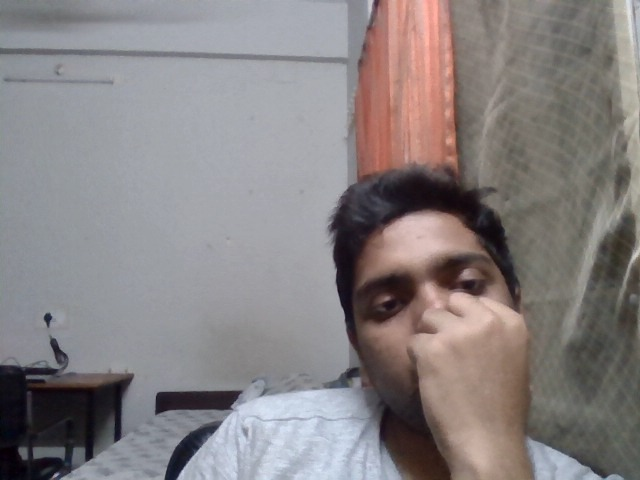
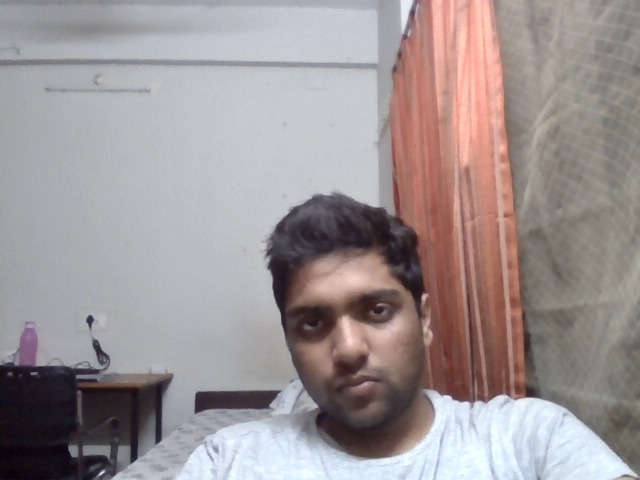
Logged In sessions created, now refreshing or switching sections don't logsout the user nor clears the previous stated answers, questions or scores.

diff --git a/templates/index.html b/templates/index.html
@@ -16,6 +16,15 @@
     <noscript
       ><link rel="stylesheet" href="/static/css/noscript.css"
     /></noscript>
+        <script>
+      (function () {
+        try {
+          if (sessionStorage.getItem("isLoggedIn") === "true") {
+            document.documentElement.classList.add("prelogged");
+          }
+        } catch (e) {}
+      })();
+    </script>
     <style>
       /* Background Styles */
       #bg {
@@ -236,6 +245,17 @@
         margin-top: 0.45rem;
         font-size: 0.95rem;
         color: rgba(255, 255, 255, 0.9);
+      }
+    
+      html.prelogged #landing-page {
+        display: none !important;
+      }
+
+      html.prelogged #header,
+      html.prelogged #main,
+      html.prelogged #footer {
+      display: block !important;
+
       }
 
     </style>
@@ -692,13 +712,18 @@
         });
         const result = await response.json();
         const feedback = document.getElementById("signInFeedback");
+        
         if (result.success) {
           feedback.textContent = "Sign-in successful! Redirecting...";
           feedback.style.color = "green";
           setTimeout(() => {
+            sessionStorage.setItem("isLoggedIn", "true");
+            sessionStorage.setItem("activeSection", "home");
+
             $("#wrapper").addClass("logged-in");
+            $("#main article").removeClass("active");
             $("#home").addClass("active");
-            // Reapply preloading class briefly for animation
+
             $("body").addClass("is-preload");
             setTimeout(() => {
               $("body").removeClass("is-preload");
@@ -711,13 +736,25 @@
       }
 
       $(document).ready(function () {
+        const isLoggedIn = sessionStorage.getItem("isLoggedIn");
+        const activeSection = sessionStorage.getItem("activeSection") || "home";
+
+        if (isLoggedIn === "true") {
+          $("#wrapper").addClass("logged-in");
+          $("#main article").removeClass("active");
+          $(`#${activeSection}`).addClass("active");
+          $(`#header nav ul li a[href="#${activeSection}"]`).addClass("active");
+        }
         $(".nav-link").on("click", function (e) {
           e.preventDefault();
           const target = $(this).attr("href").substring(1);
+
           $("#main article").removeClass("active");
           $(`#${target}`).addClass("active");
           $("#header nav ul li a").removeClass("active");
           $(this).addClass("active");
+
+          sessionStorage.setItem("activeSection", target);
           window.scrollTo(0, 0);
         });
 
@@ -971,6 +1008,18 @@
         try {
           submitBtn.disabled = true;
           hideVoiceUI(type);
+
+          if (type === "tech") {
+            document.getElementById("questionTextTech").textContent = "";
+            document.getElementById("feedbackTextTech").textContent = "";
+            document.getElementById("audioPlayerTech").src = "";
+          } else {
+            document.getElementById("questionTextHR").textContent = "";
+            document.getElementById("feedbackTextHR").textContent = "";
+            document.getElementById("audioPlayerHR").src = "";
+            document.getElementById("emotionsHR").textContent = "None detected";
+            document.getElementById("dominantEmotionHR").textContent = "None";
+          }
 
           await startCamera(type);
 
@@ -1275,26 +1324,13 @@
           }
         });
 
-      $(".nav-link, .close").on("click", function () {
+      $(".nav-link").on("click", function () {
         stopBrowserSpeech();
-        stopRecording("tech");
-        stopRecording("hr");
-        stopCamera("tech");
-        stopCamera("hr");
-        stopVoiceVisualizer("tech");
-        stopVoiceVisualizer("hr");
-        hideVoiceUI("tech");
-        hideVoiceUI("hr");
+        sessionStorage.setItem("activeSection", $(this).attr("href").substring(1));
+      });
 
-        document.getElementById("questionTextTech").textContent = "";
-        document.getElementById("questionTextHR").textContent = "";
-        document.getElementById("feedbackTextTech").textContent = "";
-        document.getElementById("feedbackTextHR").textContent = "";
-        document.getElementById("audioPlayerTech").src = "";
-        document.getElementById("audioPlayerHR").src = "";
-
-        document.getElementById("submitAnswerTech").disabled = true;
-        document.getElementById("submitAnswerHR").disabled = true;
+      $(".close").on("click", function () {
+        stopBrowserSpeech();
       });
 
     </script>

diff --git a/app.py b/app.py
@@ -1,7 +1,7 @@
 import os
 import uuid
 from google import genai
-from flask import Flask, render_template, request, jsonify
+from flask import Flask, render_template, request, jsonify, session
 import speech_recognition as sr
 import numpy as np
 import librosa
@@ -36,6 +36,7 @@ logging.basicConfig(level=logging.INFO)
 logger = logging.getLogger(__name__)
 
 app = Flask(__name__, static_url_path='/static', static_folder='static')
+app.secret_key = os.getenv("FLASK_SECRET_KEY", "cyberverse-dev-secret-key")
 
 #GOOGLE_API_KEY = os.getenv("GEMINI_API_KEY")
 #genai.configure(api_key=GOOGLE_API_KEY)
@@ -86,7 +87,6 @@ nlp = spacy.load("en_core_web_sm")
 conversation_history = []
 current_interview_type = None
 extracted_skills = []
-current_user_id = None
 
 tech_question_count = 0
 tech_score = 0
@@ -363,7 +363,6 @@ def index():
 
 @app.route('/sign_up', methods=['POST'])
 def sign_up_route():
-    global current_user_id
     try:
         email = request.form.get('email')
         password = request.form.get('password')
@@ -394,7 +393,7 @@ def sign_up_route():
         if not profile_response.data:
             return jsonify({"error": "Failed to create user profile"}), 500
 
-        current_user_id = user_id
+        session["user_id"] = user_id
         logger.info(f"User signed up with user_id: {user_id}")
         return jsonify({"success": True, "user_id": user_id})
     except Exception as e:
@@ -404,7 +403,6 @@ def sign_up_route():
 
 @app.route('/sign_in', methods=['POST'])
 def sign_in_route():
-    global current_user_id
     try:
         email = request.form.get('email')
         password = request.form.get('password')
@@ -416,7 +414,7 @@ def sign_in_route():
             return jsonify({"error": "Invalid email or password"}), 400
 
         user_id = user.data[0]["user_id"]
-        current_user_id = user_id
+        session["user_id"] = user_id
         logger.info(f"User signed in with user_id: {user_id}")
         return jsonify({"success": True, "user_id": user_id})
     except Exception as e:
@@ -424,12 +422,18 @@ def sign_in_route():
         return jsonify({"error": "Internal server error"}), 500
 
 
+@app.route('/logout', methods=['POST'])
+def logout_route():
+    session.pop("user_id", None)
+    return jsonify({"success": True})
+
 
 @app.route('/start_interview', methods=['POST'])
 def start_interview():
     global conversation_history, current_interview_type, tech_question_count, tech_score, hr_question_count, hr_score, hr_emotions_history, hr_soft_skills_history
     try:
-        if not current_user_id:
+        user_id = session.get("user_id")
+        if not user_id:
             return jsonify({"error": "User not authenticated"}), 401
 
         interview_type = request.json.get('type')
@@ -465,7 +469,8 @@ def submit_response():
     try:
         result = {}
 
-        if not current_user_id:
+        user_id = session.get("user_id")
+        if not user_id:
             return jsonify({"error": "User not authenticated"}), 401
 
         interview_type = request.form.get('type') or current_interview_type
@@ -529,15 +534,15 @@ def submit_response():
                     "tech_score": int(tech_score),
                     "last_updated": datetime.utcnow().isoformat()
                 }
-                logger.info(f"Attempting to update tech_score to {tech_score} for user_id: {current_user_id}")
-                update_response = supabase.table("profiles").update(update_data).eq("user_id", current_user_id).execute()
+                logger.info(f"Attempting to update tech_score to {tech_score} for user_id: {user_id}")
+                update_response = supabase.table("profiles").update(update_data).eq("user_id", user_id).execute()
                 logger.info(f"Tech update response: {update_response.data}")
 
-                profile_check = supabase.table("profiles").select("tech_score").eq("user_id", current_user_id).execute()
+                profile_check = supabase.table("profiles").select("tech_score").eq("user_id", user_id).execute()
                 if profile_check.data and profile_check.data[0]["tech_score"] == float(tech_score):
-                    logger.info(f"Verified tech_score updated to {tech_score} for user_id: {current_user_id}")
+                    logger.info(f"Verified tech_score updated to {tech_score} for user_id: {user_id}")
                 else:
-                    logger.error(f"Failed to verify tech_score update for user_id: {current_user_id}. Current value: {profile_check.data}")
+                    logger.error(f"Failed to verify tech_score update for user_id: {user_id}. Current value: {profile_check.data}")
 
                 result = {
                     "question": final_message,
@@ -570,8 +575,8 @@ def submit_response():
                     "hr_soft_skills": hr_soft_skills_history,
                     "last_updated": datetime.utcnow().isoformat()
                 }
-                logger.info(f"Attempting to update HR profile for user_id: {current_user_id}")
-                update_response = supabase.table("profiles").update(update_data).eq("user_id", current_user_id).execute()
+                logger.info(f"Attempting to update HR profile for user_id: {user_id}")
+                update_response = supabase.table("profiles").update(update_data).eq("user_id", user_id).execute()
                 logger.info(f"HR update response: {update_response.data}")
 
                 result = {
@@ -607,7 +612,8 @@ def submit_response():
 def upload_resume():
     global extracted_skills
     try:
-        if not current_user_id:
+        user_id = session.get("user_id")
+        if not user_id:
             return jsonify({"error": "User not authenticated"}), 401
 
         if 'file' not in request.files:
@@ -632,15 +638,16 @@ def upload_resume():
 @app.route('/profile', methods=['GET'])
 def profile():
     try:
-        if not current_user_id:
+        user_id = session.get("user_id")
+        if not user_id:
             return jsonify({"error": "User not authenticated"}), 401
 
-        profile_data = supabase.table("profiles").select("*").eq("user_id", current_user_id).execute()
+        profile_data = supabase.table("profiles").select("*").eq("user_id", user_id).execute()
         if not profile_data.data:
             return jsonify({"error": "Profile not found"}), 404
 
         profile = profile_data.data[0]
-        logger.info(f"Fetched tech profile for user_id {current_user_id}: tech_score={profile['tech_score']}")
+        logger.info(f"Fetched tech profile for user_id {user_id}: tech_score={profile['tech_score']}")
         return jsonify({
             "score": float(profile["tech_score"]), 
             "max_score": profile["tech_max_score"]
@@ -652,10 +659,11 @@ def profile():
 @app.route('/hr_profile', methods=['GET'])
 def hr_profile():
     try:
-        if not current_user_id:
+        user_id = session.get("user_id")
+        if not user_id:
             return jsonify({"error": "User not authenticated"}), 401
 
-        profile_data = supabase.table("profiles").select("*").eq("user_id", current_user_id).execute()
+        profile_data = supabase.table("profiles").select("*").eq("user_id", user_id).execute()
         if not profile_data.data:
             return jsonify({"error": "Profile not found"}), 404
 
